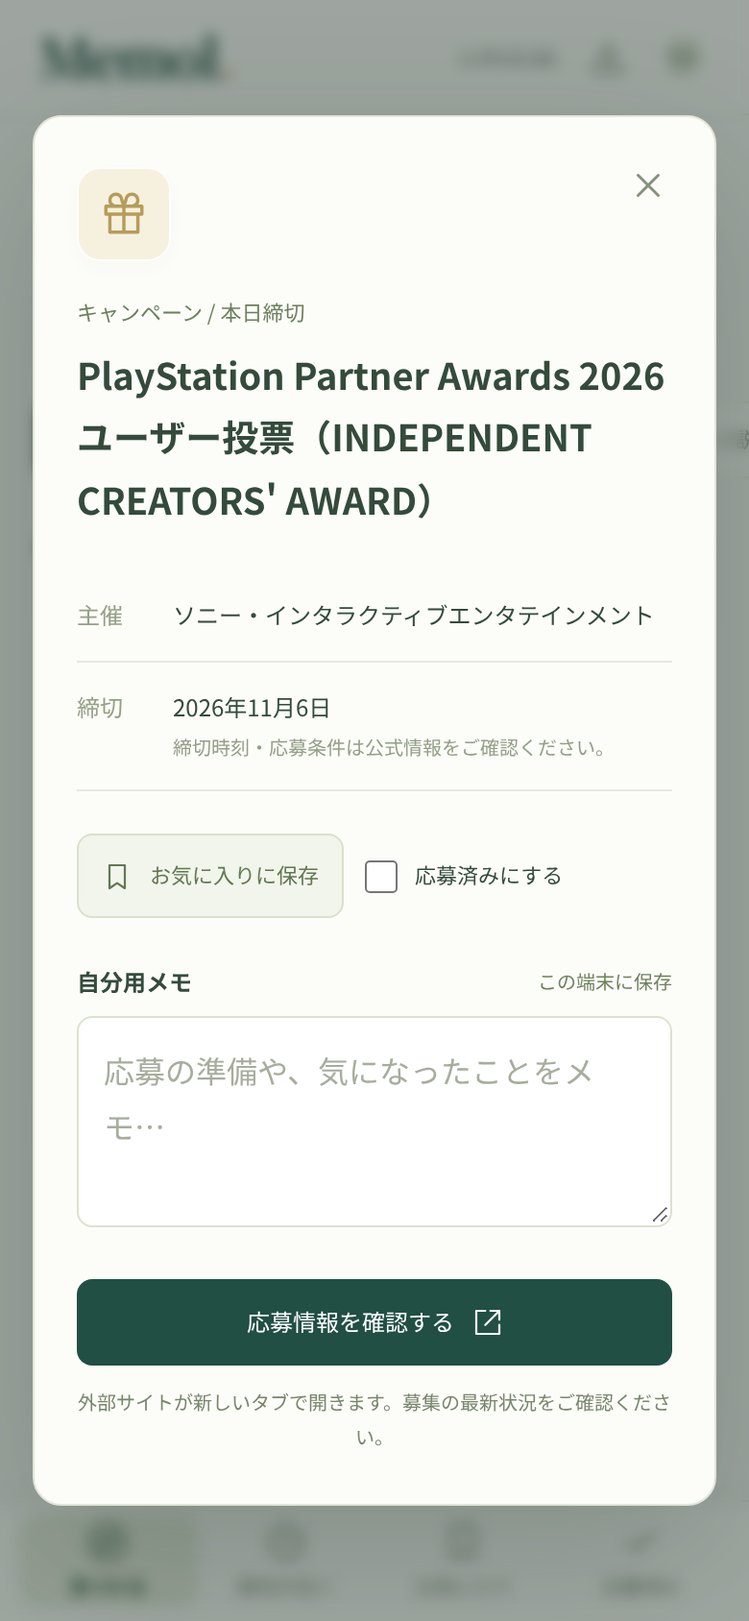
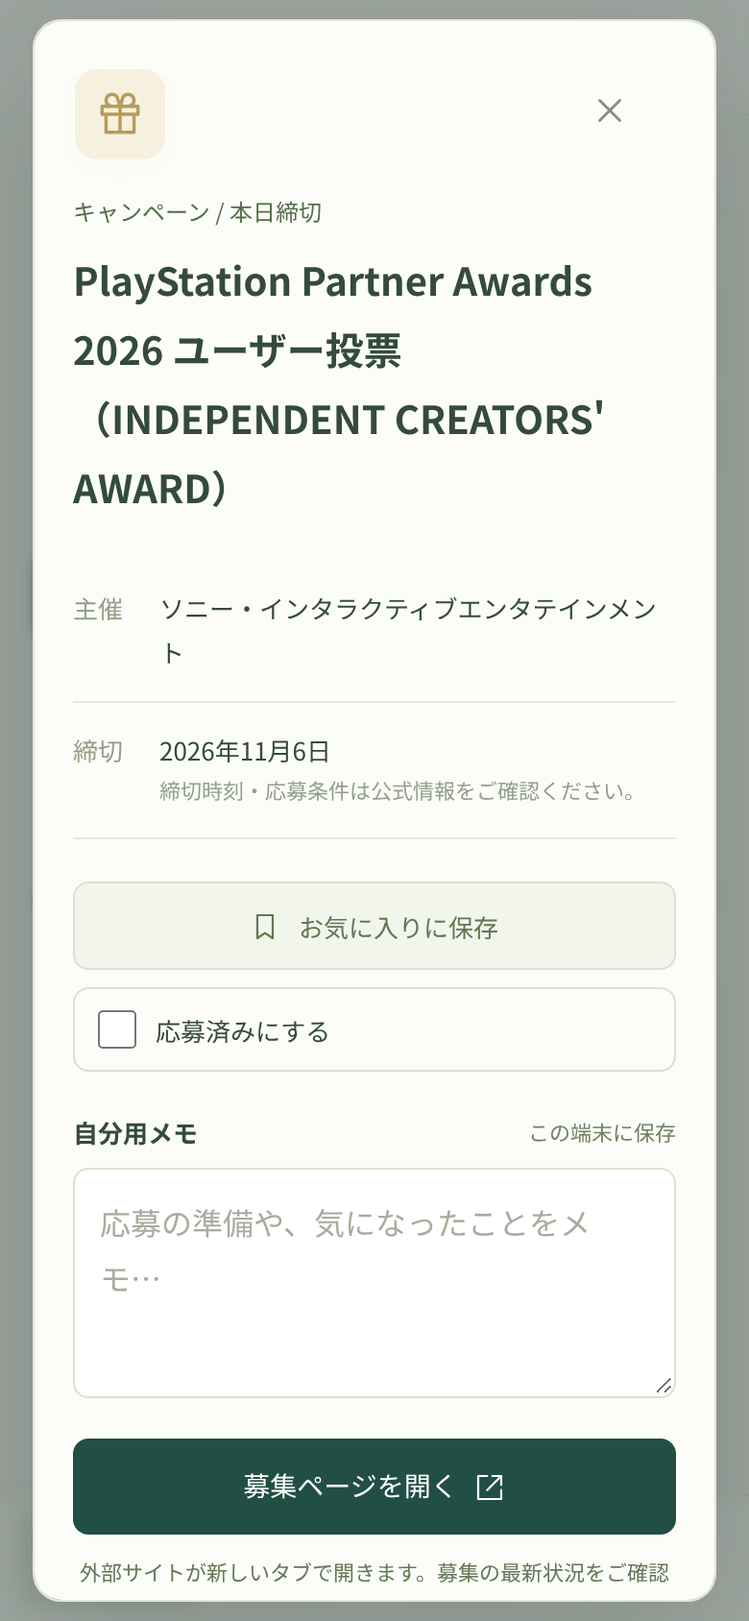
Improve readability, clearer labels and mobile touch layouts

diff --git a/src/main.js b/src/main.js
@@ -24,11 +24,11 @@ const views = [{id:'discover',label:'見つける',icon:'compass'},{id:'upcoming
 const app = document.querySelector('#app');
 app.innerHTML = `
 <aside class="sidebar"><a class="brand" href="./" aria-label="Memol ホーム"><span class="brand-mark">m<span>•</span></span>Memol<span class="brand-dot">.</span></a><p class="brand-caption">ひらめきを、次の一歩に。</p><div class="nav-caption">MY WORKSPACE</div><nav class="side-nav" aria-label="メインメニュー">${views.map(v=>`<button data-view="${v.id}">${icon(v.icon)}<span>${v.label}</span>${v.id==='saved'?'<span class="saved-count"></span>':''}</button>`).join('')}</nav><div class="sidebar-note">${icon('leaf')}<strong>小さな「やってみたい」を<br>大きなきっかけに。</strong><p>あなたらしいチャンスを<br>ここから見つけよう。</p></div><button class="install-link" data-install>${icon('download')}ホーム画面に追加</button><span class="sidebar-footer">YOUR NEXT CHAPTER STARTS HERE</span></aside>
-<div class="workspace"><header class="topbar"><span class="breadcrumb">ワークスペース <span>/</span> <b id="current-view">見つける</b></span><a href="./" class="mobile-brand">Memol<span>.</span></a><div class="topbar-right"><span id="connection" hidden>${icon('wifi')}オフライン</span><span class="today">${new Intl.DateTimeFormat('ja-JP',{month:'long',day:'numeric',weekday:'short',timeZone:'Asia/Tokyo'}).format(new Date())}</span><button class="mobile-install" data-install aria-label="ホーム画面に追加">${icon('download')}</button><span class="avatar" aria-label="マイワークスペース">M</span></div></header>
+<div class="workspace"><header class="topbar"><span class="breadcrumb">ワークスペース <span>/</span> <b id="current-view">見つける</b></span><a href="./" class="mobile-brand">Memol<span>.</span></a><div class="topbar-right"><span id="connection" hidden>${icon('wifi')}オフライン</span><span class="today">${new Intl.DateTimeFormat('ja-JP',{month:'long',day:'numeric',weekday:'short',timeZone:'Asia/Tokyo'}).format(new Date())}</span><button class="mobile-install" data-install aria-label="ホーム画面に追加">${icon('download')}<span>ホームに追加</span></button></div></header>
 <main id="main"><section class="intro"><div><p class="eyebrow">A LITTLE CURIOSITY, A NEW POSSIBILITY</p><h1 id="page-title">次のチャンスを、見つけよう。</h1><p id="page-description">気になる公募やオーディションを、あなたの次の一歩へ。</p></div><span class="intro-art" aria-hidden="true">${icon('spark')}<i></i></span></section>
 <section class="hero" aria-label="チャンスを探す"><div class="hero-copy"><span class="hero-label"><i></i> あなたの可能性、もっと広がる。</span><h2>その「好き」が、<br>新しい扉をひらく<span class="hero-period">。</span></h2><p>音楽も、物語も、まだ名前のないアイデアも。<br>挑戦したい気持ちを、ここから。</p><button id="hero-action">締切が近いチャンスを見る ${icon('arrow')}</button></div><div class="hero-art" aria-hidden="true"><div class="orbit orbit-one"></div><div class="orbit orbit-two"></div><span class="little-star star-one">✦</span><span class="little-star star-two">✧</span><div class="art-card card-back">${icon('music')}<span></span><span></span></div><div class="art-card card-front">${icon('spark')}<b>YOUR NEXT<br>CHAPTER</b><span></span><span></span><i>${icon('check')}</i></div><span class="art-caption">a possibility is waiting for you.</span></div></section>
 <section class="stats" aria-label="応募情報の集計"><button data-stat="discover"><span class="stat-icon sage">${icon('compass')}</span><span>収録チャンス<strong>${items.length}<small>件</small></strong></span>${icon('arrow','stat-arrow')}</button><button data-stat="upcoming"><span class="stat-icon peach">${icon('clock')}</span><span>7日以内に締切<strong id="upcoming-count"></strong></span>${icon('arrow','stat-arrow')}</button><button data-stat="saved"><span class="stat-icon lavender">${icon('bookmark')}</span><span>お気に入り<strong id="saved-stat"></strong></span>${icon('arrow','stat-arrow')}</button></section>
-<section class="finder" aria-label="応募情報の検索"><div class="section-heading"><div><h2 id="list-title">チャンスを探す</h2><span class="section-caption">あなたの興味から、次の一歩へ。</span></div><span class="source-date">情報収録：2026.11.06</span></div><div class="search-row"><label class="search">${icon('search')}<input id="search" type="search" placeholder="キーワードや主催者で検索" aria-label="キーワードや主催者で検索" autocomplete="off"><kbd>/</kbd></label><label class="sort-label">${icon('down')}<select id="sort" aria-label="並び順"><option value="deadline">締切が近い順</option><option value="name">名前順</option></select></label></div><div class="categories" role="group" aria-label="ジャンル">${[{name:'',label:'すべて',icon:'compass'}, ...categories].map(c=>`<button data-category="${c.name}" aria-pressed="false">${icon(c.icon)}${c.label}</button>`).join('')}</div><div class="active-filters" id="active-filters" hidden><span id="active-filter-label"></span><button id="clear-filters">条件をクリア ${icon('close')}</button></div><div class="results-bar"><p><strong id="result-count"></strong> 件のチャンス<span id="filter-caption"></span></p><span class="archive-note" hidden>終了した募集も含めて表示</span><label class="switch-label"><input type="checkbox" id="include-closed"><span class="switch"></span>終了した募集も表示</label></div><div id="results" class="results" aria-live="polite"></div></section>
+<section class="finder" aria-label="応募情報の検索"><div class="section-heading"><div><h2 id="list-title">チャンスを探す</h2><span class="section-caption">あなたの興味から、次の一歩へ。</span></div><span class="source-date">情報収録：2026.11.06</span></div><div class="search-row"><label class="search">${icon('search')}<input id="search" type="search" placeholder="キーワードや主催者で検索" aria-label="キーワードや主催者で検索" autocomplete="off"><kbd>/</kbd></label><label class="sort-label"><span class="sort-caption">並び順</span>${icon('down')}<select id="sort" aria-label="並び順"><option value="deadline">締切が近い順</option><option value="name">名前順</option></select></label></div><p class="field-caption" id="genre-label">ジャンルで絞り込み</p><div class="categories" role="group" aria-labelledby="genre-label">${[{name:'',label:'すべて',icon:'compass'}, ...categories].map(c=>`<button data-category="${c.name}" aria-pressed="false">${icon(c.icon)}${c.label}</button>`).join('')}</div><div class="active-filters" id="active-filters" hidden><span id="active-filter-label"></span><button id="clear-filters">条件をクリア ${icon('close')}</button></div><div class="results-bar"><p><strong id="result-count"></strong> 件のチャンス<span id="filter-caption"></span></p><span class="archive-note" hidden>終了した募集も含めて表示</span><label class="switch-label"><input type="checkbox" id="include-closed"><span class="switch"></span>終了した募集も表示</label></div><p id="results-summary" class="sr-only" role="status" aria-live="polite"></p><div id="results" class="results"></div></section>
 <footer class="page-footer">${icon('info')}<p>締切の表示は日本時間・日付単位です。応募条件や締切時刻はリンク先でご確認ください。<br>お気に入り・応募状況・メモは、このブラウザに保存されます。</p><button id="backup">データを保存 ${icon('download')}</button><label class="restore">復元<input type="file" id="restore" accept="application/json,.json"></label></footer></main></div>
 <nav class="bottom-nav" aria-label="スマホメニュー">${views.map(v=>`<button data-view="${v.id}">${icon(v.icon)}<span>${v.label}</span></button>`).join('')}</nav>
 <dialog id="detail-dialog" aria-labelledby="detail-title"></dialog><dialog id="install-dialog" aria-labelledby="install-title"><button class="dialog-close" aria-label="閉じる">${icon('close')}</button><span class="dialog-symbol sage">${icon('download')}</span><h2 id="install-title">Memolを、いつも手元に。</h2><p>ホーム画面に追加すると、アプリのように開けます。一度読み込めば、オフラインでも一覧を確認できます。</p><div class="install-steps"><strong>iPhone・iPad（Safari）</strong><p>共有ボタン →「ホーム画面に追加」</p><strong>Android（Chrome）</strong><p>メニュー →「アプリをインストール」または「ホーム画面に追加」</p></div><p class="muted">HTTPSで公開されたURLから開いてください。保存したデータは端末間で自動同期されません。</p><button id="native-install" class="primary" hidden>この端末にインストール</button><button class="secondary dialog-done">わかりました</button></dialog><div id="toast" role="status"></div>`;
@@ -42,9 +42,9 @@ function render() {
  const selected=selectItems(items,{...filter,...data});
  const pageCopy = {
    discover: ['次のチャンスを、見つけよう。', '気になる公募やオーディションを、あなたの次の一歩へ。', 'A LITTLE CURIOSITY, A NEW POSSIBILITY'],
-   upcoming: ['「やってみたい」を、今こそ。', '今日から7日以内に締切を迎える募集をまとめました。', 'MAKE YOUR NEXT MOVE'],
-   saved: ['気になることを、大切に。', '見つけたチャンスを、自分だけのコレクションに。', 'YOUR PERSONAL COLLECTION'],
-   applied: ['踏み出した一歩を、ここに。', '応募したチャンスと、あなたの挑戦の記録。', 'EVERY STEP COUNTS']
+   upcoming: ['締切が近い募集', '今日を含め、7日先までに締切を迎える募集です。', 'MAKE YOUR NEXT MOVE'],
+   saved: ['お気に入り', '保存した募集をまとめて確認できます。', 'YOUR PERSONAL COLLECTION'],
+   applied: ['応募済み', '応募済みにチェックした募集を確認できます。', 'EVERY STEP COUNTS']
  }[filter.view];
  document.querySelector('#page-title').textContent=pageCopy[0];
  document.querySelector('#page-description').textContent=pageCopy[1];
@@ -52,6 +52,7 @@ function render() {
  document.querySelector('.hero').hidden=filter.view!=='discover';
  document.querySelector('.stats').hidden=filter.view!=='discover';
  document.querySelector('.workspace').dataset.page=filter.view;
+ document.querySelector('#main').setAttribute('aria-label',pageCopy[0]);
  const archive=filter.view==='saved'||filter.view==='applied';
  document.querySelector('.switch-label').hidden=archive;
  document.querySelector('.archive-note').hidden=!archive;
@@ -69,12 +70,13 @@ function render() {
  const titles={discover:'チャンスを探す',upcoming:'締切が近いチャンス',saved:'お気に入りのチャンス',applied:'応募済みのチャンス'};
  document.querySelector('#list-title').textContent=titles[filter.view];
  document.querySelector('#result-count').textContent=selected.length;
+ document.querySelector('#results-summary').textContent=`${selected.length}件の募集を表示しています`;
  document.querySelector('#filter-caption').textContent=filter.category?` / ${categories.find(c=>c.name===filter.category).label}`:'';
  document.querySelector('#results').innerHTML=selected.length?selected.map(item=>{
  const c=categories.find(c=>c.name===item.category),s=status(item),days=remaining(item),saved=!!data.saved[item.id];
  const urgent=days!==null&&days>=0&&days<=7&&s!=='募集開始前';
- return `<article class="opportunity ${s==='終了'?'closed':''}"><div class="card-top"><span class="category-icon ${c.color}">${icon(c.icon)}</span><span class="category-name">${c.label}</span><button class="bookmark ${saved?'is-saved':''}" data-save="${esc(item.id)}" aria-label="${esc(item.title)}を${saved?'お気に入りから削除':'お気に入りに追加'}" aria-pressed="${saved}">${icon('bookmark')}</button></div><button class="card-title" data-detail="${esc(item.id)}"><h3>${esc(item.title)}</h3></button><p class="organizer">${esc(item.organizer)}</p><div class="card-meta"><span class="status ${data.applied[item.id]?'applied':urgent?'urgent':''} ${s==='終了'?'ended':''}"><i></i>${data.applied[item.id]?'応募済み':s}</span>${urgent?`<span class="days">${days===0?'今日まで':`あと${days}日`}</span>`:''}</div><div class="card-bottom"><span>${icon('calendar')}<span>${item.deadline?esc(item.deadline.replaceAll('-','.')):esc(item.deadlineText)}<small>締切</small></span></span><button data-detail="${esc(item.id)}" aria-label="${esc(item.title)}の詳細を見る">詳細を見る ${icon('arrow')}</button></div></article>`;
- }).join(''):`<div class="empty">${icon(filter.view==='saved'?'bookmark':'search')}<h3>${filter.view==='saved'&&!filter.query&&!filter.category?'気になるチャンスを、ここに。':'該当するチャンスがありません'}</h3><p>${filter.view==='saved'?'カードのしおりマークを押して保存できます。':'キーワードやジャンル、表示条件を変えて探してみましょう。'}</p><button id="reset-filter" class="secondary">${filter.view==='saved'||filter.view==='applied'?'チャンスを探す':'検索条件をリセット'}</button></div>`;
+ return `<article class="opportunity ${s==='終了'?'closed':''}"><div class="card-top"><span class="category-icon ${c.color}">${icon(c.icon)}</span><span class="category-name">${c.label}</span><button class="bookmark ${saved?'is-saved':''}" data-save="${esc(item.id)}" aria-label="${esc(item.title)}を${saved?'お気に入りから削除':'お気に入りに追加'}" aria-pressed="${saved}">${icon('bookmark')}</button></div><button class="card-title" data-detail="${esc(item.id)}"><h3>${esc(item.title)}</h3></button><p class="organizer">${esc(item.organizer)}</p><div class="card-meta"><span class="status ${data.applied[item.id]?'applied':urgent?'urgent':''} ${s==='終了'?'ended':''}"><i></i>${data.applied[item.id]?'応募済み':s}</span>${urgent?`<span class="days">${days===0?'今日まで':`あと${days}日`}</span>`:''}</div><div class="card-bottom"><span>${icon('calendar')}<span><small>締切</small>${item.deadline?esc(item.deadline.replaceAll('-','/')):esc(item.deadlineText)}</span></span><button data-detail="${esc(item.id)}" aria-label="${esc(item.title)}の詳細を見る">詳細を見る ${icon('arrow')}</button></div></article>`;
+ }).join(''):`<div class="empty">${icon(filter.view==='saved'?'bookmark':'search')}<h3>${!hasFilters&&filter.view==='saved'?'お気に入りはまだありません':!hasFilters&&filter.view==='applied'?'応募済みの募集はまだありません':'該当する募集がありません'}</h3><p>${hasFilters?'キーワードやジャンルを変えるか、検索条件を解除してください。':filter.view==='saved'?'募集カード右上のしおりマークで、ここに保存できます。':filter.view==='applied'?'募集の詳細画面で「応募済みにする」にチェックすると、ここに表示されます。':filter.view==='upcoming'?'今日から7日先までに締切を迎える募集はありません。すべての募集から探してみましょう。':'キーワードやジャンル、表示条件を変えて探してみましょう。'}</p><button id="reset-filter" class="secondary">${hasFilters?'検索条件をリセット':filter.view==='upcoming'||filter.view==='saved'||filter.view==='applied'?'チャンスを探す':'検索条件をリセット'}</button></div>`;
  if(focusedId) {
    const replacement=[...document.querySelectorAll(`[${focusedAction}]`)].find(el=>el.getAttribute(focusedAction)===focusedId&&el.className===focused.className);
    // A saved bookmark changes its class when toggled; preserve keyboard focus either way.
@@ -93,8 +95,8 @@ function changeView(view) {
 function openDetail(id) {
  const item=items.find(i=>i.id===id);if(!item)return;
  const c=categories.find(c=>c.name===item.category),dialog=document.querySelector('#detail-dialog');
- dialog.innerHTML=`<button class="dialog-close" aria-label="閉じる">${icon('close')}</button><span class="dialog-symbol ${c.color}">${icon(c.icon)}</span><span class="detail-category">${c.label} / ${status(item)}</span><h2 id="detail-title">${esc(item.title)}</h2><dl><div><dt>主催</dt><dd>${esc(item.organizer)}</dd></div><div><dt>締切</dt><dd>${esc(item.deadlineText)}<small>締切時刻・応募条件は公式情報をご確認ください。</small></dd></div></dl><div class="detail-actions"><button class="secondary ${data.saved[id]?'selected':''}" id="detail-save" aria-pressed="${!!data.saved[id]}">${icon('bookmark')}${data.saved[id]?'お気に入りに保存済み':'お気に入りに保存'}</button><label class="applied-toggle"><input id="applied" type="checkbox" ${data.applied[id]?'checked':''}>応募済みにする</label></div><label class="note-label" for="note">自分用メモ<span id="note-status">この端末に保存</span></label><textarea id="note" placeholder="応募の準備や、気になったことをメモ…" maxlength="5000">${esc(data.notes[id]||'')}</textarea><a class="primary official-link" href="${esc(item.url)}" target="_blank" rel="noopener noreferrer">応募情報を確認する ${icon('external')}</a><p class="detail-disclaimer">外部サイトが新しいタブで開きます。募集の最新状況をご確認ください。</p>`;
- dialog.querySelector('#detail-save').onclick=()=>{data.saved[id]=!data.saved[id];persist();render();const button=dialog.querySelector('#detail-save');button.innerHTML=`${icon('bookmark')}${data.saved[id]?'お気に入りに保存済み':'お気に入りに保存'}`;button.setAttribute('aria-pressed',String(data.saved[id]));};
+ dialog.innerHTML=`<button class="dialog-close" aria-label="閉じる">${icon('close')}</button><span class="dialog-symbol ${c.color}">${icon(c.icon)}</span><span class="detail-category">${c.label} / ${status(item)}</span><h2 id="detail-title">${esc(item.title)}</h2><dl><div><dt>主催</dt><dd>${esc(item.organizer)}</dd></div><div><dt>締切</dt><dd>${esc(item.deadlineText)}<small>締切時刻・応募条件は公式情報をご確認ください。</small></dd></div></dl><div class="detail-actions"><button class="secondary ${data.saved[id]?'selected':''}" id="detail-save" aria-pressed="${!!data.saved[id]}">${icon('bookmark')}${data.saved[id]?'お気に入りに保存済み':'お気に入りに保存'}</button><label class="applied-toggle"><input id="applied" type="checkbox" ${data.applied[id]?'checked':''}>応募済みにする</label></div><label class="note-label" for="note">自分用メモ<span id="note-status">この端末に保存</span></label><textarea id="note" aria-describedby="note-status" placeholder="応募の準備や、気になったことをメモ…" maxlength="5000">${esc(data.notes[id]||'')}</textarea><a class="primary official-link" href="${esc(item.url)}" target="_blank" rel="noopener noreferrer">募集ページを開く ${icon('external')}</a><p class="detail-disclaimer">外部サイトが新しいタブで開きます。募集の最新状況をご確認ください。</p>`;
+ dialog.querySelector('#detail-save').onclick=()=>{data.saved[id]=!data.saved[id];persist();render();const button=dialog.querySelector('#detail-save');button.innerHTML=`${icon('bookmark')}${data.saved[id]?'お気に入りに保存済み':'お気に入りに保存'}`;button.setAttribute('aria-pressed',String(data.saved[id]));button.classList.toggle('selected',!!data.saved[id]);};
  dialog.querySelector('#applied').onchange=e=>{data.applied[id]=e.target.checked;persist();render();};
  dialog.querySelector('#note').oninput=e=>{data.notes[id]=e.target.value;dialog.querySelector('#note-status').textContent=persist()?'保存しました':'保存できません';};
  if(!dialog.open)dialog.showModal();
@@ -108,7 +110,7 @@ app.addEventListener('click',e=>{
  if(e.target.closest('.dialog-close, .dialog-done'))e.target.closest('dialog').close();
  if(e.target.closest('[data-install]'))document.querySelector('#install-dialog').showModal();
  if(e.target.closest('#clear-filters')){clearFilters();render();document.querySelector('#search').focus();}
- if(e.target.closest('#reset-filter')){filter={view:'discover',category:'',query:'',sort:'deadline',includeClosed:false};document.querySelector('#search').value='';document.querySelector('#include-closed').checked=false;document.querySelector('#sort').value='deadline';render();}
+ if(e.target.closest('#reset-filter')){if(filter.query.trim()||filter.category){clearFilters();render();document.querySelector('#search').focus();}else{filter.includeClosed=false;document.querySelector('#include-closed').checked=false;changeView('discover');}}
 });
 document.querySelector('#search').oninput=e=>{filter.query=e.target.value;render();};
 document.querySelector('#sort').onchange=e=>{filter.sort=e.target.value;render();};

diff --git a/src/style.css b/src/style.css
@@ -119,3 +119,139 @@
  .detail-disclaimer{font-size:10px!important;line-height:1.8}
 }
 @media(max-width:359px){.hero-art{display:none}.hero h2{font-size:23px}.hero-copy{padding:20px 18px}.intro p:last-child{font-size:10px}h1{font-size:20px}.stats>button>span:nth-child(2){font-size:8px}}
+/* Readable labels, visible choices and comfortable touch targets. */
+.sr-only{position:absolute;width:1px;height:1px;padding:0;margin:-1px;overflow:hidden;clip-path:inset(50%);white-space:nowrap;border:0}
+.field-caption{font-size:12px;font-weight:600;color:#52674a;margin:18px 0 9px}
+.categories{margin-top:0}
+.sort-label{gap:8px;padding-left:12px}
+.sort-caption{font-size:11px;color:#5e7154;white-space:nowrap}
+.search input::placeholder{color:#69795e}
+.search input{font-size:14px}
+.section-caption,.source-date,.organizer,.category-name,.archive-note{color:#617457}
+.source-date{font-size:11px}
+.intro p:last-child{font-size:13px;line-height:1.9}
+.section-caption{font-size:12px}
+.stats>button>span:nth-child(2){color:#5e7254;font-size:12px}
+.card-title h3{line-height:1.9}
+.organizer{font-size:12px}
+.card-bottom>span{font-size:12px;color:#45623d}
+.card-bottom small{color:#647856;font-size:10px;margin-left:0;margin-right:7px}
+.card-bottom button{font-size:12px;min-height:44px;min-width:92px;justify-content:flex-end}
+.bookmark{min-width:44px;min-height:44px;color:#728563}
+.bookmark.is-saved{color:#2e653e;background:#edf3e5}
+.bookmark.is-saved .icon{fill:#d1e1bc}
+.categories button{min-height:44px;font-size:12px;color:#596f4c}
+.status{font-size:11px}
+.status.ended{color:#626e59;background:#ebeee6}
+.status.ended i{background:#7d8b6c}
+.results-bar{gap:12px;flex-wrap:wrap}
+.results-bar p{font-size:12px;color:#5e7251}
+.results-bar strong{font-size:17px}
+.switch-label{position:relative;font-size:12px;min-height:44px;gap:8px;color:#5c7051}
+.switch-label input{inset:0;width:100%;height:100%;margin:0;cursor:pointer}
+.switch{width:32px;height:19px;padding:3px;flex-shrink:0}
+.switch:before{width:13px;height:13px}
+.switch-label input:checked+.switch:before{transform:translateX(13px)}
+.active-filters{font-size:12px}
+.active-filters button{font-size:12px;min-height:44px}
+.empty p{color:#5f7452;line-height:1.9;font-size:13px}
+.empty h3{line-height:1.8}
+.empty .secondary{margin:auto;width:fit-content;min-width:160px}
+.page-footer{flex-wrap:wrap;color:#607451}
+.page-footer p{font-size:11px;line-height:1.9}
+.page-footer button,.restore{font-size:12px;min-height:44px}
+.page-footer button{margin-left:0}
+.detail-category{font-size:12px;color:#546f46}
+.detail-actions .selected{background:#e5efdb;color:#315c35;border-color:#c0d3ac}
+.note-label span{font-size:11px}
+.applied-toggle{min-height:44px}
+.dialog-close{position:sticky;top:0;float:right;margin:-10px -8px 0 0;background:#fcfdf9;box-shadow:0 0 0 3px #fcfdf9;z-index:2}
+.detail-disclaimer{color:#637855}
+.primary,.secondary{font-size:13px;min-height:46px}
+.mobile-install{font-size:11px;gap:4px}
+@media(max-width:850px){.stats>button>span:nth-child(2){font-size:10px}.sort-caption{display:none}}
+@media(max-width:650px){
+ html{scroll-padding-top:76px}
+ main{padding-bottom:calc(100px + env(safe-area-inset-bottom))}
+ .eyebrow,.intro-art{display:none}
+ .intro{margin-bottom:17px}
+ h1{font-size:22px;line-height:1.6}
+ .intro p:last-child{font-size:12px;line-height:1.85}
+ .hero{min-height:0}
+ .hero-copy{padding:19px 20px}
+ .hero-label,.hero-copy>p{display:none}
+ .hero h2{font-size:23px;line-height:1.5;margin:0 0 12px}
+ .hero button{font-size:12px;min-height:44px}
+ .hero-art{opacity:.2;right:-4px;top:-30px}
+ .stats{margin-bottom:23px}
+ .stats>button>span:nth-child(2){font-size:10px}
+ .stats strong{font-size:25px}
+ .section-heading{align-items:flex-start;gap:10px;flex-wrap:wrap;margin-bottom:14px}
+ .section-caption{font-size:12px;line-height:1.8}
+ .source-date{font-size:10px;align-self:center}
+ .search-row{flex-wrap:wrap}
+ .search{flex-basis:100%;min-height:50px}
+ .search input{font-size:16px}
+ .search input::placeholder{font-size:14px}
+ .sort-label{margin-left:auto;min-height:44px;padding-left:12px}
+ .sort-caption{display:inline;font-size:12px}
+ .sort-label select{font-size:13px;min-height:44px;padding-left:4px}
+ .field-caption{font-size:12px;margin:12px 0 9px}
+ .categories{flex-wrap:wrap;overflow:visible;margin:0 0 10px;padding:0;gap:7px}
+ .categories button{font-size:12px;padding:9px 11px;min-height:44px;justify-content:center}
+ .categories .icon{width:16px;height:16px}
+ .results-bar{gap:4px;margin-bottom:12px}
+ .results-bar p{font-size:11px}
+ .switch-label{font-size:11px;gap:6px}
+ .active-filters{gap:8px;padding:4px 10px;font-size:12px}
+ .active-filters button{font-size:11px}
+ .archive-note{font-size:11px}
+ .category-name{font-size:12px}
+ .card-title h3{font-size:16px;line-height:1.85}
+ .organizer{font-size:12px;line-height:1.85}
+ .card-bottom>span{font-size:13px}
+ .card-bottom button{font-size:12px}
+ .status,.days{font-size:12px}
+ .opportunity{padding:18px 17px 0}
+ .card-meta{flex-wrap:wrap}
+ .bottom-nav button{min-height:52px;font-size:11px}
+ .mobile-install{display:flex;min-width:56px;justify-content:center;color:#486740}
+ .mobile-install .icon{width:18px;height:18px}
+ .today{font-size:11px}
+ .topbar-right{gap:10px}
+ dialog{width:calc(100% - 20px);max-height:calc(100dvh - 20px);padding:24px 20px;overscroll-behavior:contain;scroll-padding-top:54px}
+ dialog h2{font-size:20px;line-height:1.8;overflow-wrap:anywhere}
+ dl>div{font-size:13px;gap:15px}
+ dd{min-width:0;overflow-wrap:anywhere}
+ dd small{font-size:11px;line-height:1.9}
+ .detail-actions{display:grid;grid-template-columns:1fr;gap:9px;margin-bottom:22px}
+ .detail-actions .secondary{font-size:13px;min-height:46px}
+ .applied-toggle{font-size:13px;padding:10px 12px;gap:10px;border:1px solid #d9e1cd;border-radius:8px}
+ .applied-toggle:has(input:checked){background:#e7efdf;border-color:#bfd0aa}
+ .applied-toggle input{width:20px;height:20px;margin:0}
+ .note-label{font-size:13px;gap:8px;align-items:center}
+ .note-label span{font-size:11px}
+ textarea{min-height:120px;margin-bottom:16px}
+ .official-link{min-height:50px;font-size:14px}
+ .detail-disclaimer{font-size:11px!important}
+ .page-footer p{font-size:11px;flex-basis:calc(100% - 24px)}
+ .page-footer button{margin-left:20px}
+ .restore{margin-left:10px}
+ .install-steps{font-size:13px;padding:16px}
+ dialog>p{font-size:13px}
+ .muted{font-size:11px!important}
+ .workspace:not([data-page=discover]) .intro{padding-bottom:18px;margin-bottom:17px}
+}
+@media(max-width:359px){
+ h1{font-size:21px}
+ .intro p:last-child{font-size:12px}
+ .topbar{padding:0 14px}
+ .topbar-right{gap:4px}
+ .today{font-size:10px}
+ .stats>button>span:nth-child(2){font-size:9px}
+ .categories button{padding:9px 8px;font-size:11px}
+ .card-bottom{flex-wrap:wrap;gap:0}
+ .switch-label{font-size:10px}
+ .source-date{align-self:flex-start}
+}
+@media(max-height:500px) and (max-width:950px){dialog{max-height:calc(100dvh - 12px);margin:6px auto}.dialog-close{top:0}}

diff --git a/tests/app.spec.js b/tests/app.spec.js
@@ -13,7 +13,7 @@ test('collection views clear previous search and show the collection immediately
  await page.locator('.bookmark').first().click();await expect(page.locator('.bookmark').first()).toBeFocused();
  await page.getByRole('searchbox').fill('SMA');await expect(page.locator('#active-filters')).toBeVisible();
  await page.locator('.bottom-nav [data-view=saved]').click();
- await expect(page.locator('h1')).toHaveText('気になることを、大切に。');
+ await expect(page.locator('h1')).toHaveText('お気に入り');
  await expect(page.locator('.hero')).toBeHidden();await expect(page.locator('.stats')).toBeHidden();
  await expect(page.getByRole('searchbox')).toHaveValue('');await expect(page.locator('.opportunity')).toHaveCount(1);
  await expect(page.locator('.archive-note')).toBeVisible();
@@ -24,4 +24,26 @@ test('clear active filters without leaving the current view',async({page})=>{
  await expect(page.locator('.opportunity')).toHaveCount(1);
  await page.locator('#clear-filters').click();await expect(page.locator('.opportunity')).toHaveCount(10);
  await expect(page.locator('#current-view')).toHaveText('締切が近い');await expect(page.locator('#search')).toBeFocused();
+});
+test('mobile genre choices and primary touch targets fit the screen',async({page})=>{
+ await page.setViewportSize({width:320,height:740});await page.goto('/');
+ const categories=page.locator('[data-category]');await expect(categories).toHaveCount(7);
+ for(const button of await categories.all()){
+  const box=await button.boundingBox();expect(box.x).toBeGreaterThanOrEqual(0);expect(box.x+box.width).toBeLessThanOrEqual(320);expect(box.height).toBeGreaterThanOrEqual(44);
+ }
+ await page.locator('.card-title').first().click();
+ await expect(page.locator('#detail-dialog')).toBeVisible();await page.locator('#note').fill('狭い画面でも入力');
+ const noteBox=await page.locator('#note').boundingBox();expect(noteBox.x).toBeGreaterThanOrEqual(0);expect(noteBox.x+noteBox.width).toBeLessThanOrEqual(320);
+ await page.setViewportSize({width:740,height:320});
+ await page.locator('#detail-dialog').evaluate(dialog=>dialog.scrollTop=dialog.scrollHeight);
+ const close=page.locator('#detail-dialog .dialog-close');const closeBox=await close.boundingBox();expect(closeBox.y).toBeGreaterThanOrEqual(0);expect(closeBox.y+closeBox.height).toBeLessThanOrEqual(320);
+ await close.click();await expect(page.locator('#detail-dialog')).toBeHidden();
+});
+test('empty filtered collection explains recovery and keeps its view',async({page})=>{
+ await page.setViewportSize({width:390,height:844});await page.goto('/');
+ await page.locator('.bookmark').first().click();await page.locator('.bottom-nav [data-view=saved]').click();
+ await page.getByRole('searchbox').fill('見つからない検索');await expect(page.locator('.empty p')).toContainText('検索条件を解除');
+ await page.getByRole('button',{name:'検索条件をリセット'}).click();
+ await expect(page.locator('#current-view')).toHaveText('お気に入り');await expect(page.locator('.opportunity')).toHaveCount(1);
+ await page.locator('.bottom-nav [data-view=applied]').click();await expect(page.locator('.empty p')).toContainText('応募済みにする');
 });

diff --git a/README.md b/README.md
@@ -50,7 +50,7 @@ UIは Vite + JavaScript + CSS。外部フォント、外部UIライブラリ、A
 
 ## 確認した範囲
 
-データテスト7件、Chromium操作テスト10件（320px / 390px / 1440px、検索、絞り込み、お気に入り、メモ・応募状況の再読込、壊れた保存データ、インストール案内、オフライン再起動）。iOS Safari・Android実機での操作と、外部94サイトの掲載内容・リンク有効性は未確認です。
+データテスト7件、Chromium操作テスト12件（320px / 390px / 1440px、検索、絞り込み、お気に入り、メモ・応募状況の再読込、壊れた保存データ、インストール案内、オフライン再起動）。追加で、スマホの全ジャンル表示・44px以上の操作範囲・横向きの詳細画面・空の一覧からの復帰を確認しています。iOS Safari・Android実機での操作と、外部94サイトの掲載内容・リンク有効性は未確認です。
 
 ## 画面プレビュー
 
